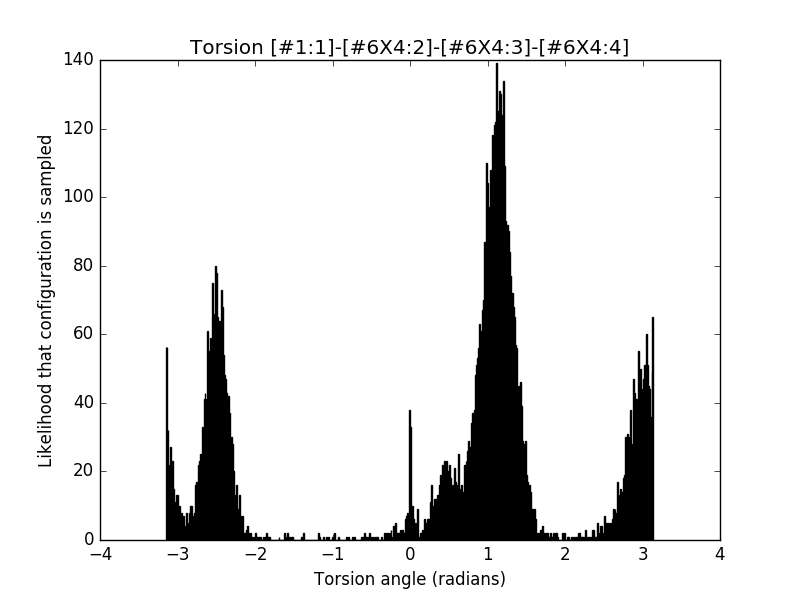
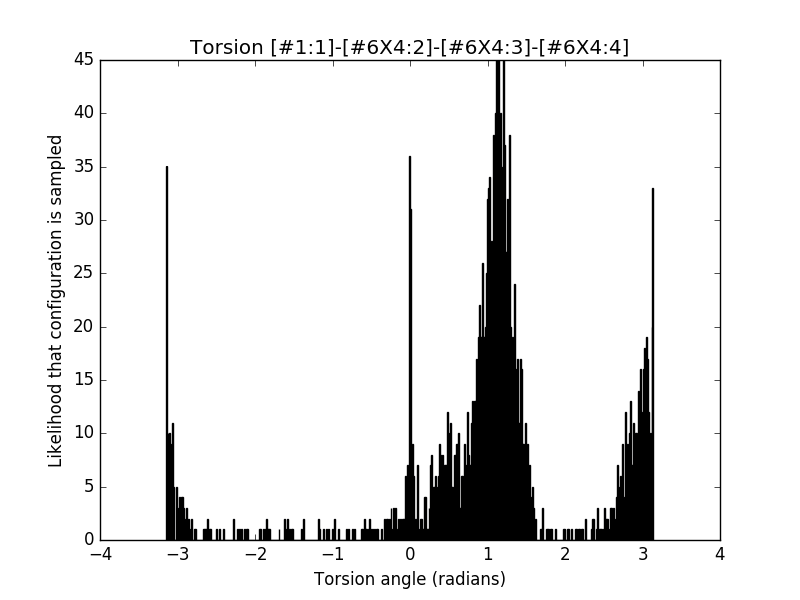
Check torsion fits, added phase variable

diff --git a/single-molecule-property-generation/least_squares_fit_example.py b/single-molecule-property-generation/least_squares_fit_example.py
@@ -328,9 +328,9 @@ def readtraj(ncfiles):
 #------------------------------------------------------------------
 tau = 2.
 def fourier(x, *a):
-    ret = a[0]* np.cos(np.pi / tau * x)
-    for deg in range(1, len(a)):
-        ret += a[deg] * np.cos((deg+1) * np.pi / tau * x)
+    ret = a[0] / 2 + a[2] * np.sin(2*np.pi*x / tau + a[1])
+    for deg in range(2, len(a)/2):
+        ret += a[2*deg] * np.sin((deg) * 2*np.pi*x / tau + a[2*deg-1])
     return ret
 #-----------------------------------------------------------------
 # Fit the given data to a 5 term fourier series:
@@ -404,8 +404,8 @@ data_r48, xyz_r48, time_r48 = readtraj([traj[0]])
 #data_r51, xyz_r51, time_r51 = readtraj([traj[1]])
 #print len(xyz_r51)
 
-xyzn_r48 = unit.Quantity(xyz_r48[:], unit.angstroms)
-time_r48 = unit.Quantity(time_r48[:], unit.picoseconds)
+xyzn_r48 = unit.Quantity(xyz_r48[-2500:], unit.angstroms)
+#time_r48 = unit.Quantity(time_r48[:], unit.picoseconds)
 #xyzn_r51 = unit.Quantity(xyz_r51[:9238], unit.angstroms)
 #time_r51 = unit.Quantity(time_r51[:9238], unit.picoseconds)
 
@@ -505,8 +505,8 @@ plt.figure()
 for i,j in enumerate(n1):
 	if j==0.:
            n1[i]=5.
-print n1
-popt, pcov = sci.curve_fit(fourier, bins1[1:], n1, [1.0] * 7, bounds=(0,np.inf))
+
+popt, pcov = sci.curve_fit(fourier, bins1[1:], n1, [1.0]*14)
 plt.plot(bins1[1:],fourier(bins1[1:],popt[0],popt[1],popt[2],popt[3],popt[6]))
 plt.ylabel('Number of times configuration is sampled')
 plt.xlabel('Torsion angle (radians)')
